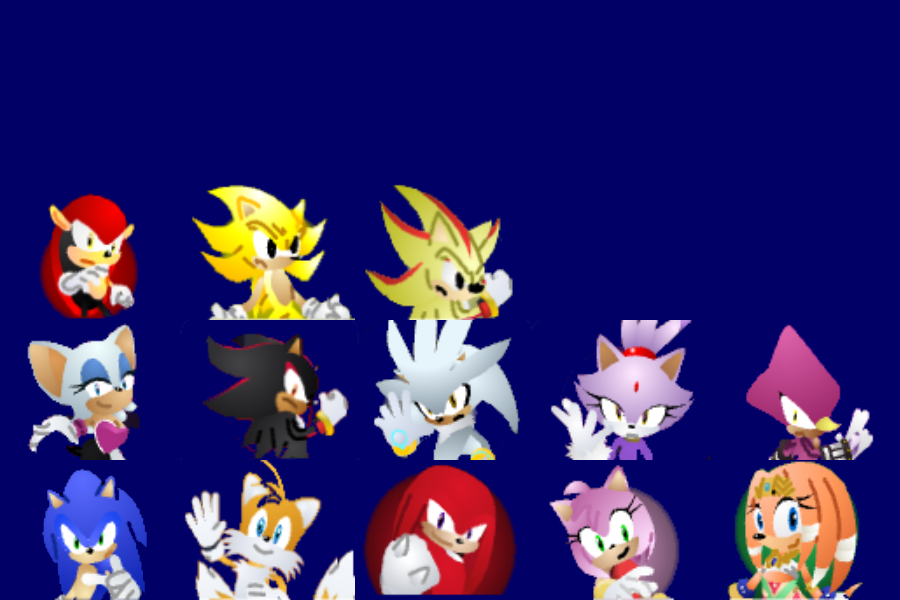
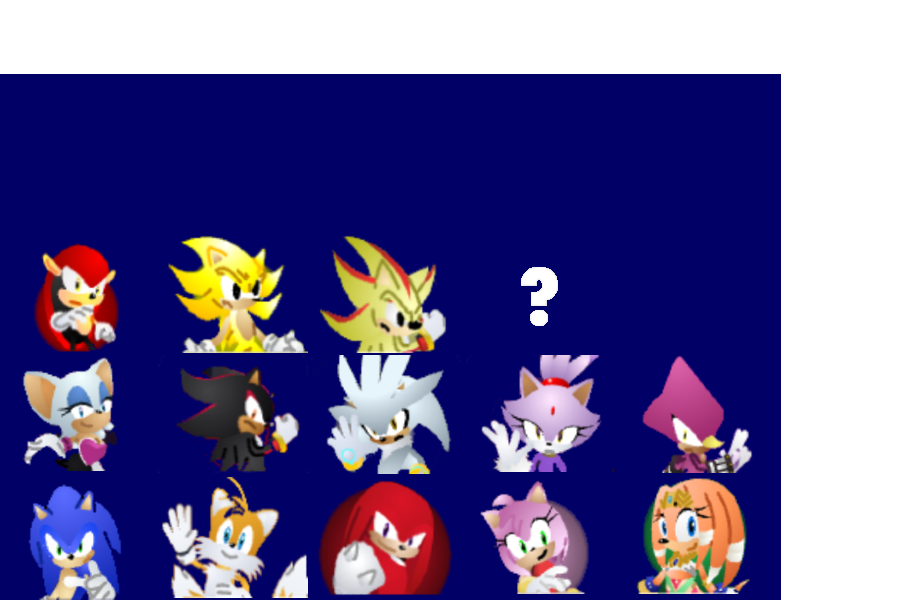
마우스 화면 출력
ready state 마우스로 캐릭터 화면 출력

diff --git a/ready_state.py b/ready_state.py
@@ -1,11 +1,15 @@
 from pico2d import *
 import game_framework
-import main_state
 import middle_state
 
 image = None
+character_image = None
+
+choose = False
+x, y = 0, 0
 
 def handle_events():
+    global character_image, choose, x, y
     events = get_events()
     for event in events:
         if event.type == SDL_QUIT:
@@ -16,9 +20,12 @@ def handle_events():
             elif event.key == SDLK_RETURN:
                 middle_state.image = load_image('map/stage1.png')
                 game_framework.change_state(middle_state)
-
         elif event.type == SDL_MOUSEBUTTONDOWN:
-            pass
+            x, y = event.x, 600 - 1 - event.y
+            #  y 280 < 390 < 500 x 25 < 130 < 240 < 345 < 450 < 560 < 665 < 770
+            if 280 <= y <= 500 and 25 <= x <= 770:
+                choose = True
+
 
 def enter():
     global image
@@ -31,8 +38,44 @@ def exit():
     pass
 
 def draw():
+    global choose, x, y
     clear_canvas()
-    image.draw(390, 350)
+    image.draw(390, 300)
+
+    #  y 280 < 390 < 500 x 25 < 130 < 240 < 345 < 450 < 560 < 665 < 770
+    if choose == True:
+        character_image = load_image('map/choose.png')
+        if 390 <= y < 500:
+            if 25 <= x < 130:
+                character_image.clip_draw(0, 0, 150, 120, 410, 140)
+            if 130 <= x < 240:
+                character_image.clip_draw(150, 0, 150, 120, 405, 140)
+            if 240 <= x < 345:
+                character_image.clip_draw(320, 0, 150, 120, 410, 140)
+            if 345 <= x < 450:
+                character_image.clip_draw(470, 0, 150, 120, 410, 140)
+            if 450 <= x < 560:
+                character_image.clip_draw(620, 0, 150, 120, 405, 140)
+            if 560 <= x < 665:
+                character_image.clip_draw(0, 125, 150, 120, 410, 140)
+            if 665 <= x < 770:
+                character_image.clip_draw(170, 125, 150, 120, 410, 140)
+        elif 280 <= y <= 390:
+            if 25 <= x < 130:
+                character_image.clip_draw(320, 125, 150, 120, 410, 140)
+            if 130 <= x < 240:
+                character_image.clip_draw(470, 125, 150, 120, 405, 140)
+            if 240 <= x < 345:
+                character_image.clip_draw(620, 125, 150, 120, 410, 140)
+            if 345 <= x < 450:
+                character_image.clip_draw(0, 250, 150, 120, 410, 140)
+            if 450 <= x < 560:
+                character_image.clip_draw(160, 250, 150, 120, 405, 140)
+            if 560 <= x < 665:
+                character_image.clip_draw(310, 250, 150, 120, 410, 140)
+            if 665 <= x < 770:
+                character_image.clip_draw(470, 250, 150, 120, 410, 140)
+
     update_canvas()
 
 def update():

diff --git a/main_state.py b/main_state.py
@@ -48,7 +48,7 @@ def inComputer(characters):
 def enter():
     global player_character, computer_character
     global stage, stage_count, sound
-    player_character = Tikal()
+    player_character = SuperSonic()
     inComputer(SuperShadow())
     inComputer(Shadow())
     inComputer(Knuckles())
